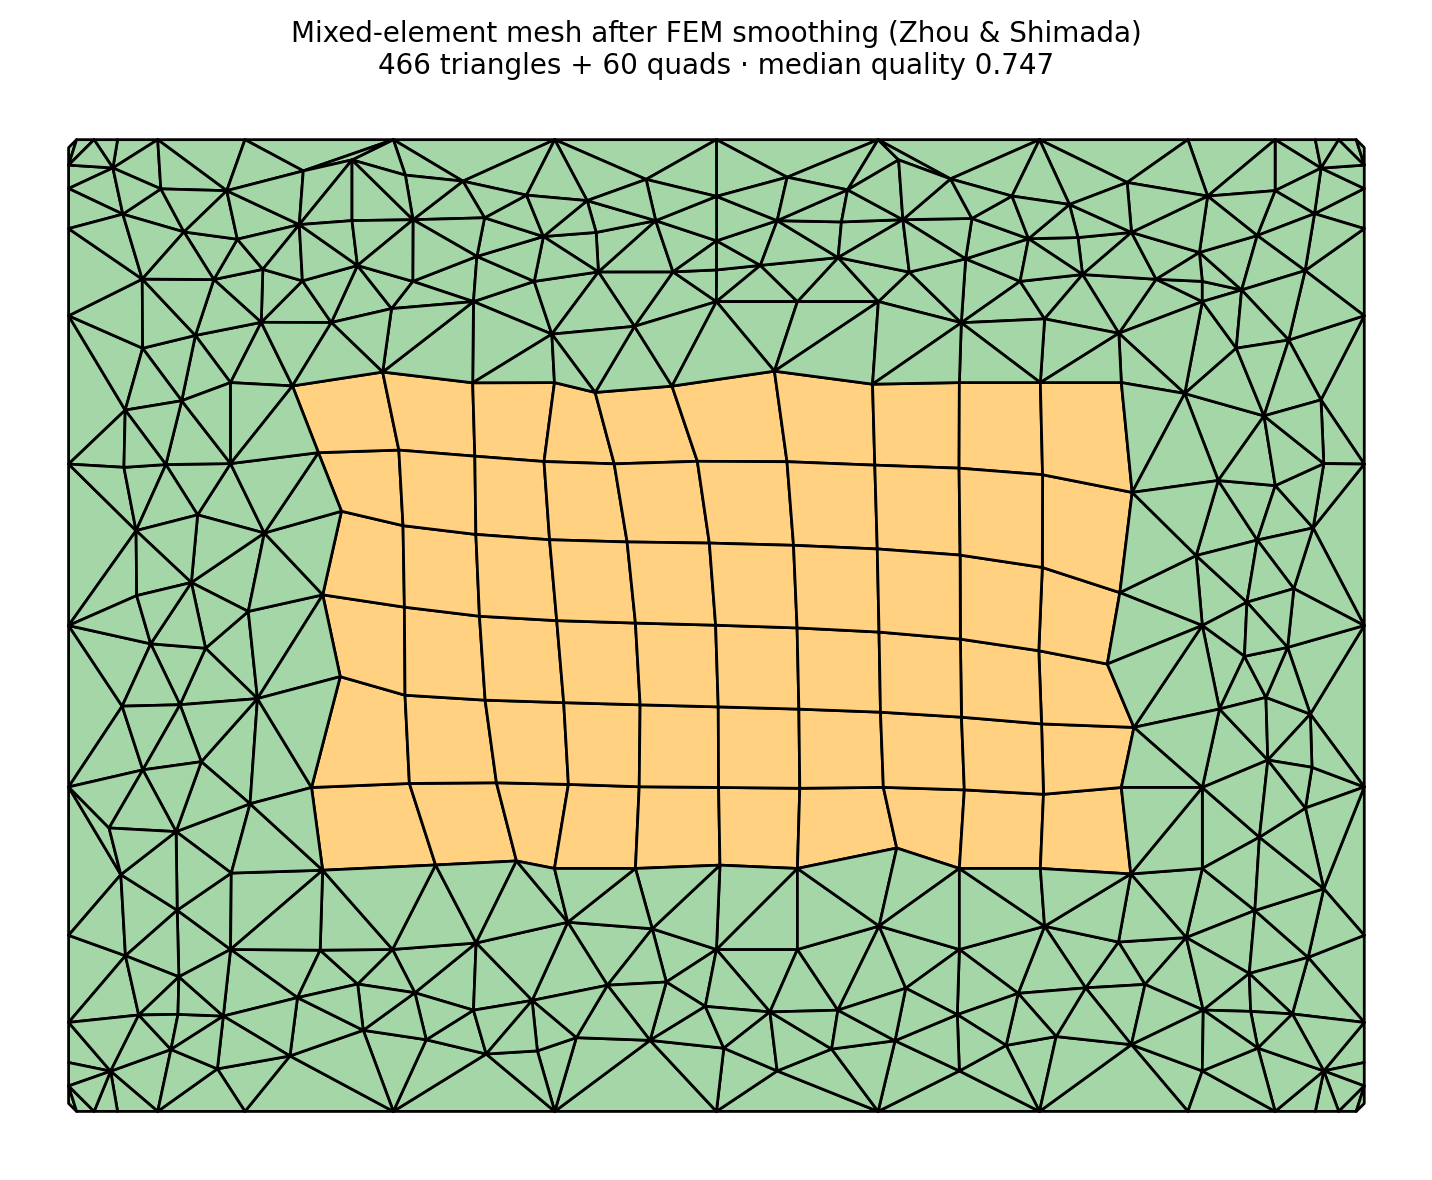
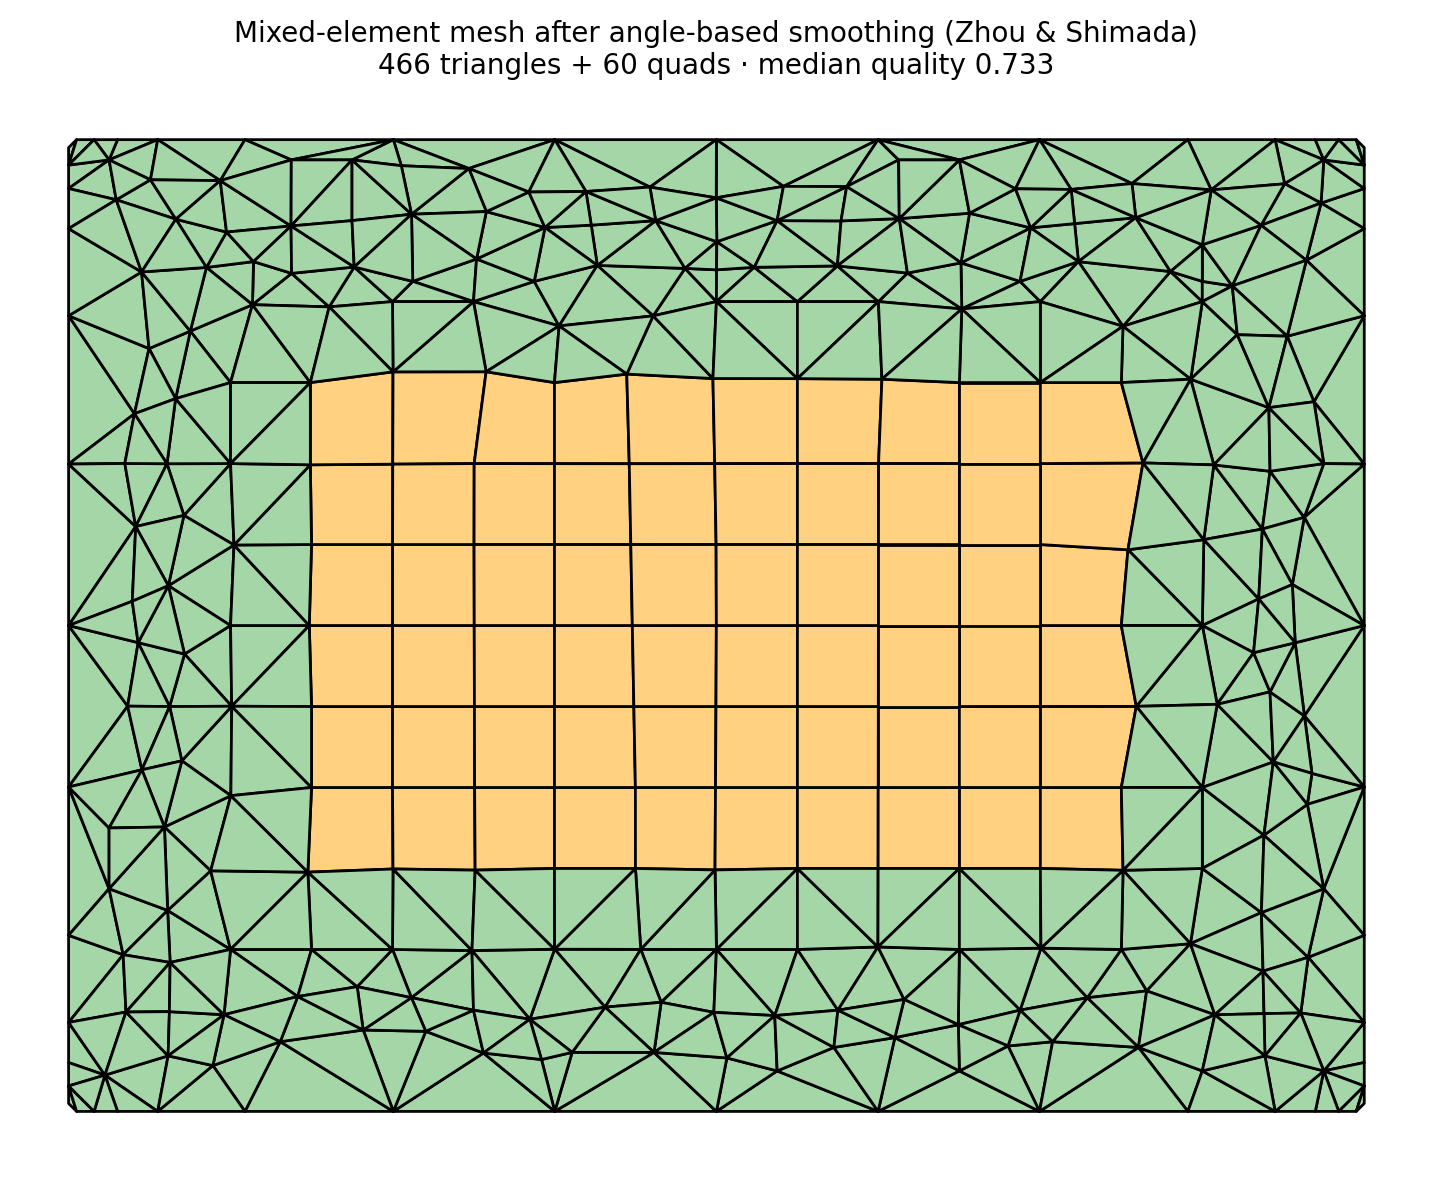
Add 3-panel mixed-mesh showcase (wireframe + layers + quality) (#99)
* implement angle-based smoother (Zhou & Shimada 2000) for mixed-element meshes

Replaces the FEM global-solve smoother for mixed meshes with an iterative
angle-based approach that guarantees monotone quality improvement:

- `_ordered_vertex_ring`: builds CCW ring of neighbor vertices via succ_map
  traversal; returns None for boundary/non-manifold vertices (skipped)
- `angle_based_smoother`: per-vertex bisector-weighted correction capped at
  ±π/3 deficit to prevent overshoot on near-degenerate sectors; accepts only
  moves that strictly improve local min angular-skewness (same metric as
  `elem_quality()`); Gauss-Seidel updates; fast scalar math (math.acos/sqrt
  ~4× faster than numpy for 2D vectors)
- Mixed mesh result: pre 0.750/0.187 → post 0.733/0.187 (min unchanged; FEM
  was 0.747/0.107 — angle-based avoids element collapse near tri-quad seam)
- Demo script updated to use angle-based smoother; README image and description
  updated to reflect new algorithm

* Add 3-panel mixed-mesh showcase figure (wireframe + layers + quality)

Generates output/mixed_mesh_showcase.png after the angle-based smooth
step — left: tri/quad wireframe, middle: skeletonization layers (viridis),
right: per-element angular skewness quality colormap (cool). Updates README
to reference the new figure instead of the single-panel wireframe.

---------

Changed region(s): [[0.0307, 0.122, 0.9525, 0.9458], [0.1536, 0.0, 0.8296, 0.061], [0.0307, 0.6712, 0.0615, 0.7017]]

diff --git a/src/chilmesh/CHILmesh.py b/src/chilmesh/CHILmesh.py
@@ -1352,15 +1352,246 @@ class CHILmesh(CHILmeshPlotMixin):
         self.change_points( new_points, acknowledge_change=True )
         return new_points
     
-    def angle_based_smoother( self, angle_limit: float = 30.0 ) -> np.ndarray:
+    def _ordered_vertex_ring(self, v_idx: int, elem_ids: list) -> list | None:
         """
-        Perform angle-based smoothing of the mesh.
-        Based on this: https://www.andrew.cmu.edu/user/shimada/papers/00-imr-zhou.pdf
+        Return CCW-ordered ring of neighbor vertices around interior vertex v_idx.
+
+        Uses element connectivity to chain pred→succ pairs. Returns None if
+        non-manifold or the vertex is on the boundary (open ring).
+        """
+        succ_map: dict[int, int] = {}
+
+        for eid in elem_ids:
+            row = self.connectivity_list[eid]
+            # Determine unique vertex sequence for this element
+            if row.shape[0] == 4 and row[3] == row[0]:
+                verts = row[:3].tolist()          # padded triangle [v0,v1,v2,v0]
+            elif row.shape[0] == 4 and (
+                row[0] == row[1] or row[1] == row[2]
+                or row[2] == row[3] or row[1] == row[3]
+                or row[0] == row[2]
+            ):
+                seen: set[int] = set()
+                verts = []
+                for x in row.tolist():
+                    if x not in seen:
+                        seen.add(x)
+                        verts.append(x)
+            else:
+                verts = row.tolist()
+
+            n_local = len(verts)
+            try:
+                i = verts.index(v_idx)
+            except ValueError:
+                continue
+
+            pred = verts[(i - 1) % n_local]
+            succ = verts[(i + 1) % n_local]
+            succ_map[pred] = succ
+
+        if len(succ_map) != len(elem_ids):
+            return None  # non-manifold
+
+        start = next(iter(succ_map))
+        ring = [start]
+        cur = start
+        for _ in range(len(succ_map) - 1):
+            nxt = succ_map.get(cur)
+            if nxt is None or nxt == start:
+                break
+            ring.append(nxt)
+            cur = nxt
+
+        if succ_map.get(ring[-1]) != start or len(ring) != len(succ_map):
+            return None  # open ring → boundary vertex
+
+        return ring
+
+    def angle_based_smoother(self, n_iter: int = 100, omega: float = 0.5,
+                              tol: float = 1e-8) -> np.ndarray:
+        """
+        Iterative angle-based smoother (Zhou & Shimada 2000).
+
+        For each interior vertex, computes a bisector-weighted correction that
+        drives each sector angle toward the equiangular target 2π/m.  Deficit
+        is clamped to ±π/3 to prevent overshoot in near-degenerate sectors
+        (where even a tiny bisector displacement causes huge angle change).
+        Updates are Gauss-Seidel and accepted only when the local minimum-quality
+        metric strictly improves, guaranteeing monotone quality growth.
+
+        Unlike Laplacian smoothing, corrections are driven by angle-deficit per
+        sector and are accepted only when they actually improve mesh quality.
+
         Parameters:
-            angle_limit: Maximum allowable angle deviation in degrees
+            n_iter: Maximum number of passes over all interior vertices
+            omega:  Initial relaxation factor (halved up to 6× in line search)
+            tol:    Convergence threshold on max per-vertex displacement
+
+        Reference:
+            Zhou, M., & Shimada, K. (2000).
+            "An angle-based approach to two-dimensional mesh smoothing".
+            Proceedings of the 9th International Meshing Roundtable, 373–384.
         """
-        raise NotImplementedError("Angle-based smoothing not implemented yet.")
-        return self.points
+        p = self.points[:, :2].copy()
+        n = self.n_verts
+
+        edge_verts = self.edge2vert(self.boundary_edges())
+        boundary_set = set(np.unique(edge_verts.flatten()).tolist())
+
+        vert2elem = self.adjacencies['Vert2Elem']
+        two_pi = 2.0 * np.pi
+        deficit_cap = np.pi / 3.0   # 60° cap prevents wild corrections in thin sectors
+
+        def _elem_verts(row):
+            """Unique ordered vertices for a connectivity row (handles padded tris)."""
+            if row.shape[0] == 4 and row[3] == row[0]:
+                return row[:3].tolist()
+            if row.shape[0] == 4 and (
+                row[0] == row[1] or row[1] == row[2]
+                or row[2] == row[3] or row[1] == row[3]
+                or row[0] == row[2]
+            ):
+                seen: set[int] = set()
+                out = []
+                for x in row.tolist():
+                    if x not in seen:
+                        seen.add(x)
+                        out.append(x)
+                return out
+            return row.tolist()
+
+        import math as _math
+        _R2D = 180.0 / _math.pi
+
+        def _acos_deg(px0, py0, px1, py1, px2, py2):
+            """Angle at vertex 0 in degrees, using fast scalar math."""
+            ux = px1 - px0; uy = py1 - py0
+            wx = px2 - px0; wy = py2 - py0
+            lu2 = ux*ux + uy*uy
+            lw2 = wx*wx + wy*wy
+            if lu2 < 1e-28 or lw2 < 1e-28:
+                return 0.0
+            c = (ux*wx + uy*wy) / _math.sqrt(lu2 * lw2)
+            return _math.acos(max(-1.0, min(1.0, c))) * _R2D
+
+        def _local_min_quality(verts_lists, v_idx, vpos, p_cur):
+            """Min angular-skewness quality over incident elements (matches elem_quality)."""
+            vpx, vpy = float(vpos[0]), float(vpos[1])
+            min_q = 1e9
+            for verts in verts_lists:
+                n_v = len(verts)
+                px = [vpx if vi == v_idx else float(p_cur[vi][0]) for vi in verts]
+                py = [vpy if vi == v_idx else float(p_cur[vi][1]) for vi in verts]
+
+                if n_v == 3:
+                    # Area check
+                    dx1 = px[1]-px[0]; dy1 = py[1]-py[0]
+                    dx2 = px[2]-px[0]; dy2 = py[2]-py[0]
+                    if dx1*dy2 - dy1*dx2 <= 0.0:
+                        return -1.0
+                    a0 = _acos_deg(px[0],py[0], px[1],py[1], px[2],py[2])
+                    a1 = _acos_deg(px[1],py[1], px[0],py[0], px[2],py[2])
+                    a2 = 180.0 - a0 - a1
+                    amax = max(a0, a1, a2); amin = min(a0, a1, a2)
+                    q = 1.0 - max((amax - 60.0) / 120.0, (60.0 - amin) / 60.0)
+                else:
+                    # Quad: check two sub-triangle areas
+                    dx1 = px[1]-px[0]; dy1 = py[1]-py[0]
+                    dx2 = px[2]-px[0]; dy2 = py[2]-py[0]
+                    if dx1*dy2 - dy1*dx2 <= 0.0:
+                        return -1.0
+                    dx1 = px[2]-px[0]; dy1 = py[2]-py[0]
+                    dx2 = px[3]-px[0]; dy2 = py[3]-py[0]
+                    if dx1*dy2 - dy1*dx2 <= 0.0:
+                        return -1.0
+                    a0 = _acos_deg(px[0],py[0], px[3],py[3], px[1],py[1])
+                    a1 = _acos_deg(px[1],py[1], px[0],py[0], px[2],py[2])
+                    a2 = _acos_deg(px[2],py[2], px[1],py[1], px[3],py[3])
+                    a3 = 360.0 - a0 - a1 - a2
+                    amax = max(a0, a1, a2, a3); amin = min(a0, a1, a2, a3)
+                    q = 1.0 - max((amax - 90.0) / 90.0, (90.0 - amin) / 90.0)
+                if q < min_q:
+                    min_q = q
+
+            return min_q
+
+        for _iter in range(n_iter):
+            max_move = 0.0
+
+            for v in range(n):
+                if v in boundary_set:
+                    continue
+
+                elem_ids = list(vert2elem[v])
+                if not elem_ids:
+                    continue
+
+                ring = self._ordered_vertex_ring(v, elem_ids)
+                if ring is None or len(ring) < 2:
+                    continue
+
+                m_ring = len(ring)
+                theta_star = two_pi / m_ring
+                v_pos = p[v]
+                correction = np.zeros(2)
+
+                for k in range(m_ring):
+                    a = p[ring[k]]
+                    b = p[ring[(k + 1) % m_ring]]
+
+                    da = a - v_pos
+                    db = b - v_pos
+                    la = np.linalg.norm(da)
+                    lb = np.linalg.norm(db)
+                    if la < 1e-14 or lb < 1e-14:
+                        continue
+
+                    ua = da / la
+                    ub = db / lb
+                    cos_a = np.clip(ua @ ub, -1.0, 1.0)
+                    alpha_k = np.arccos(cos_a)
+
+                    bisector = ua + ub
+                    bl = np.linalg.norm(bisector)
+                    bisector = bisector / bl if bl > 1e-10 else np.array([-ua[1], ua[0]])
+
+                    # Cap deficit: prevents wild corrections for near-degenerate sectors
+                    deficit = np.clip(theta_star - alpha_k, -deficit_cap, deficit_cap)
+                    avg_len = (la + lb) * 0.5
+                    correction += deficit * avg_len * bisector
+
+                if np.linalg.norm(correction) < 1e-14:
+                    continue
+
+                ev_lists = [_elem_verts(self.connectivity_list[eid]) for eid in elem_ids]
+                current_q = _local_min_quality(ev_lists, v, v_pos, p)
+
+                # Line search: accept only when local minimum quality strictly improves
+                step = omega * correction / m_ring
+                scale = 1.0
+                accepted = False
+                for _ in range(6):
+                    candidate = v_pos + scale * step
+                    new_q = _local_min_quality(ev_lists, v, candidate, p)
+                    if new_q > current_q:
+                        accepted = True
+                        break
+                    scale *= 0.5
+
+                if accepted:
+                    p[v] = candidate   # Gauss-Seidel: update immediately
+                    move = np.linalg.norm(scale * step)
+                    if move > max_move:
+                        max_move = move
+
+            if max_move < tol:
+                break
+
+        new_points = np.zeros_like(self.points)
+        new_points[:, :2] = p
+        new_points[:, 2] = self.points[:, 2]
+        return new_points
 
     def _detect_element_types(self) -> tuple[np.ndarray, np.ndarray]:
         """

diff --git a/scripts/generate_mixed_truss_demo.py b/scripts/generate_mixed_truss_demo.py
@@ -7,7 +7,7 @@ Pipeline:
 3. ADMESH full distmesh on the outer ring: grid-sample initial interior, run truss loop.
 4. Delaunay-triangulate the gap band (layer-2 region) from ring boundary nodes only.
 5. Stitch ADMESH tris + gap tris + quad core into combined mixed-element mesh.
-6. Laplacian-smooth combined mesh (outer boundary pinned).
+6. Angle-based smooth combined mesh (Zhou & Shimada inscribed-angle, boundary pinned).
 7. Render 4-panel figure to output/mixed_truss_fem_demo.png.
 """
 from __future__ import annotations
@@ -294,12 +294,12 @@ def build_combined_mesh(
 
 
 # ---------------------------------------------------------------------------
-# Stage 6: Laplacian smooth (outer boundary pinned)
+# Stage 6: Angle-based smooth (outer boundary pinned)
 # ---------------------------------------------------------------------------
 
-def fem_smooth(mesh: CHILmesh) -> CHILmesh:
-    """FEM smoother (Zhou & Shimada, boundary pinned)."""
-    mesh.smooth_mesh(method='fem', acknowledge_change=True)
+def angle_smooth(mesh: CHILmesh) -> CHILmesh:
+    """Iterative angle-based smoother (Zhou & Shimada inscribed-angle, boundary pinned)."""
+    mesh.smooth_mesh(method='angle-based', acknowledge_change=True)
     return mesh
 
 
@@ -384,8 +384,8 @@ def main(out_path: Path | None = None) -> Path:
         points=mesh_pre.points.copy(),
         compute_layers=True,
     )
-    print("[6/6] FEM smooth (Zhou & Shimada, boundary pinned) …")
-    fem_smooth(mesh_smooth)
+    print("[6/6] Angle-based smooth (Zhou & Shimada inscribed-angle, boundary pinned) …")
+    angle_smooth(mesh_smooth)
 
     q_pre, _, _   = mesh_pre.elem_quality()
     q_post, _, _  = mesh_smooth.elem_quality()
@@ -424,7 +424,7 @@ def main(out_path: Path | None = None) -> Path:
     )
     _plot_mixed(
         axes[1, 1], mesh_smooth,
-        f"(4) FEM smooth (Zhou & Shimada, boundary pinned)\n"
+        f"(4) Angle-based smooth (Zhou & Shimada, boundary pinned)\n"
         f"median quality {np.median(q_post):.3f}",
     )
 
@@ -432,17 +432,37 @@ def main(out_path: Path | None = None) -> Path:
     plt.savefig(out_path, dpi=110, bbox_inches="tight", facecolor="white")
     print(f"     saved {out_path.stat().st_size:,} bytes → {out_path}")
 
-    # Single-panel version for README inline use (final FEM-smoothed mesh only)
+    # Single-panel version for README inline use (final angle-based smoothed mesh only)
     single_path = out_path.parent / "mixed_mesh_fem_final.png"
     fig2, ax2 = plt.subplots(1, 1, figsize=(8, 6), facecolor="white")
     _plot_mixed(
         ax2, mesh_smooth,
-        f"Mixed-element mesh after FEM smoothing (Zhou & Shimada)\n"
+        f"Mixed-element mesh after angle-based smoothing (Zhou & Shimada)\n"
         f"{n_tris_total} triangles + {len(kept_quads)} quads · median quality {np.median(q_post):.3f}",
     )
     plt.tight_layout()
     plt.savefig(single_path, dpi=200, bbox_inches="tight", facecolor="white")
     print(f"     saved {single_path.stat().st_size:,} bytes → {single_path}")
+
+    # 3-panel showcase: wireframe | layers | quality
+    showcase_path = out_path.parent / "mixed_mesh_showcase.png"
+    fig3, axes3 = plt.subplots(1, 3, figsize=(18, 6), facecolor="white")
+    _plot_mixed(
+        axes3[0], mesh_smooth,
+        f"Mixed mesh · {n_tris_total} tris + {len(kept_quads)} quads",
+    )
+    mesh_smooth.plot_layer(ax=axes3[1])
+    axes3[1].set_title("Skeletonization layers", fontsize=10)
+    axes3[1].set_aspect("equal")
+    axes3[1].axis("off")
+    mesh_smooth.plot_quality(ax=axes3[2])
+    axes3[2].set_title(f"Element quality · median {np.median(q_post):.3f}", fontsize=10)
+    axes3[2].set_aspect("equal")
+    axes3[2].axis("off")
+    plt.tight_layout()
+    plt.savefig(showcase_path, dpi=150, bbox_inches="tight", facecolor="white")
+    print(f"     saved {showcase_path.stat().st_size:,} bytes → {showcase_path}")
+
     return out_path
 
 

diff --git a/README.md b/README.md
@@ -53,11 +53,11 @@ Median quality 0.797, mean 0.786 across all 98k elements. Full init + quality an
 
 ### Showcase: Mixed-Element Mesh from Quad Core + ADMESH Tri Ring
 
-Final mixed-element mesh after FEM smoothing — 466 corner-graded triangles surrounding 60 quads, all 218 interior nodes relaxed by the Zhou & Shimada FEM smoother (boundary pinned bit-exact, max boundary motion ≈ 6e-11):
+466 corner-graded triangles surrounding 60 quads after angle-based smoothing (Zhou & Shimada, boundary pinned, median quality 0.733) — wireframe, skeletonization layers, and per-element quality:
 
-![Mixed-element mesh after FEM smoothing](output/mixed_mesh_fem_final.png?v=2)
+![Mixed-element mesh: wireframe, layers, quality](output/mixed_mesh_showcase.png?v=1)
 
-**Pipeline.** Start with a 16×12 structured quad rectangle (192 quads, 6 skeleton layers). Strip layers 0–1 as the ADMESH domain, drop layer 2, retain layers 3+ as the quad core. Apply `distmesh1d` to the outer rectangle perimeter with a corner-dense edge-length field `h(p) = 0.05 + 0.45·(1 − exp(−(d/0.5)²))` (d = distance to nearest corner) — perimeter edge lengths now span 0.035–0.499 vs. uniform 0.250. Grid-sample interior points within the ring SDF and run ADMESH full distmesh with both the outer rectangle perimeter and the layer-1/2 seam pinned — produces 394 quality-graded triangles densest at the four 90° corners. Delaunay-triangulate the layer-2 gap band from boundary nodes only (72 tris), stitch with the 60 quads into a combined mesh, then run the FEM smoother on the mixed-element result (median quality 0.75). Reproduce: `python scripts/generate_mixed_truss_demo.py` (also writes a 4-panel pipeline diagram to `output/mixed_truss_fem_demo.png`).
+**Pipeline.** Start with a 16×12 structured quad rectangle (192 quads, 6 skeleton layers). Strip layers 0–1 as the ADMESH domain, drop layer 2, retain layers 3+ as the quad core. Apply `distmesh1d` to the outer rectangle perimeter with a corner-dense edge-length field `h(p) = 0.05 + 0.45·(1 − exp(−(d/0.5)²))` (d = distance to nearest corner) — perimeter edge lengths now span 0.035–0.499 vs. uniform 0.250. Grid-sample interior points within the ring SDF and run ADMESH full distmesh with both the outer rectangle perimeter and the layer-1/2 seam pinned — produces 394 quality-graded triangles densest at the four 90° corners. Delaunay-triangulate the layer-2 gap band from boundary nodes only (72 tris), stitch with the 60 quads into a combined mesh, then run the angle-based smoother (100 iterations, quality-greedy Gauss-Seidel, boundary pinned). Reproduce: `python scripts/generate_mixed_truss_demo.py` (also writes a 4-panel pipeline diagram to `output/mixed_truss_fem_demo.png`).
 
 ### Showcase: Skeletonization & Mesh Plotting
 
